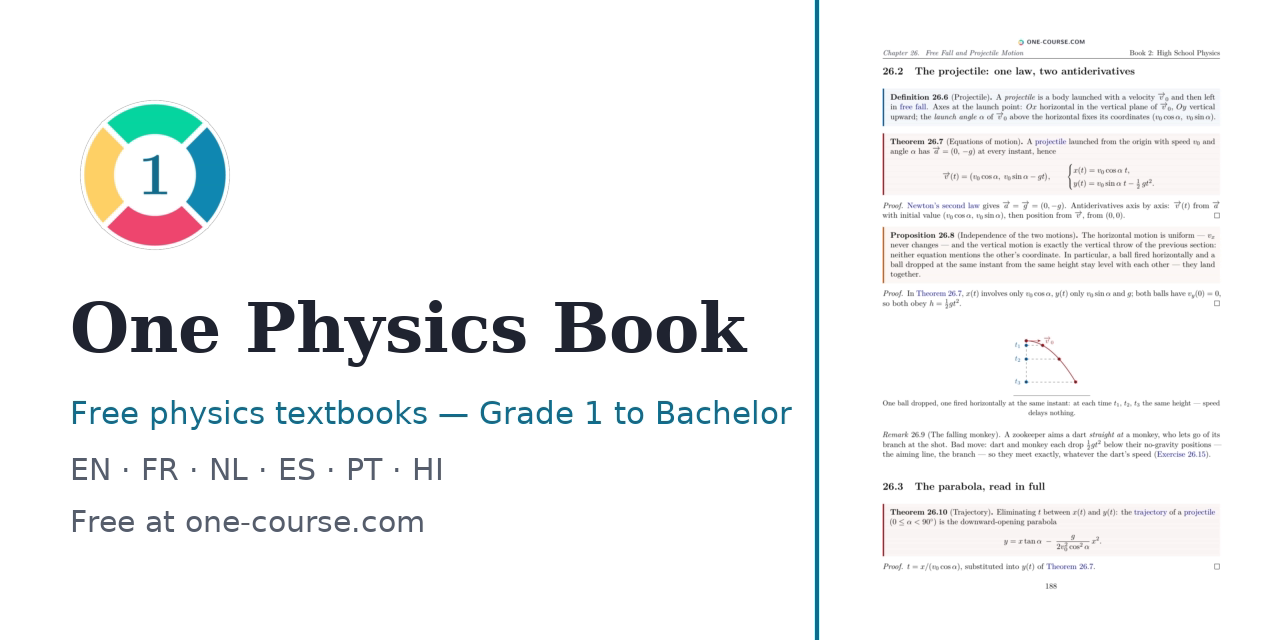
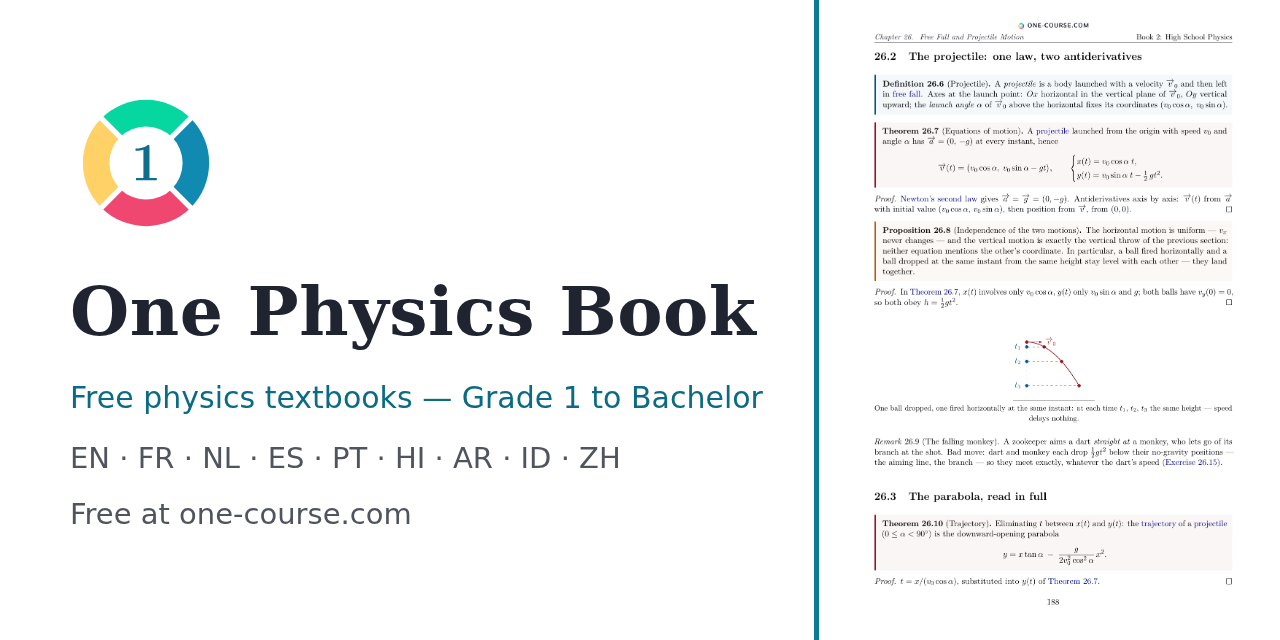
PP-172: Update all readmes

diff --git a/README.md b/README.md
@@ -1,7 +1,7 @@
 # One Physics Book
 
 <p align="center">
-  <a href="https://www.one-course.com">
+  <a href="https://one-course.com">
     <img src="assets/one-course-logo.svg" alt="One Course — one-course.com" width="420">
   </a>
 </p>
@@ -10,7 +10,7 @@
   <a href="https://github.com/bvirrion/one-physics-book/releases/latest"><img src="https://img.shields.io/github/v/release/bvirrion/one-physics-book?label=latest%20release" alt="Latest release"></a>
   <a href="https://github.com/bvirrion/one-physics-book/releases"><img src="https://img.shields.io/github/downloads/bvirrion/one-physics-book/total?label=PDF%20downloads" alt="PDF downloads"></a>
   <a href="https://github.com/bvirrion/one-physics-book/actions/workflows/release.yml"><img src="https://img.shields.io/github/actions/workflow/status/bvirrion/one-physics-book/release.yml?label=build" alt="Build status"></a>
-  <a href="https://www.one-course.com/books"><img src="https://img.shields.io/badge/read%20online-one--course.com-1f6feb" alt="Read online"></a>
+  <a href="https://one-course.com/books"><img src="https://img.shields.io/badge/read%20online-one--course.com-1f6feb" alt="Read online"></a>
 </p>
 
 *The One Physics Book to Rule Them All.*
@@ -18,9 +18,13 @@
 > **One Physics Book** is part of the **One Course** project — one coherent
 > course covering each subject from kindergarten to the end of the
 > bachelor's degree. Discover the whole project at
-> **[www.one-course.com](https://www.one-course.com)**, and see the siblings
+> **[one-course.com](https://one-course.com)**, and see the siblings
 > [One Math Book](https://github.com/bvirrion/one-math-book),
-> [One Biology Book](https://github.com/bvirrion/one-biology-book) and
+> [One Chemistry Book](https://github.com/bvirrion/one-chemistry-book),
+> [One Biology Book](https://github.com/bvirrion/one-biology-book),
+> [One Earth and Space Sciences Book](https://github.com/bvirrion/one-earth-and-space-sciences-book),
+> [One Computer Science Book](https://github.com/bvirrion/one-computer-science-book),
+> [One Economics Book](https://github.com/bvirrion/one-economics-book) and
 > [One Quant Book](https://github.com/bvirrion/one-quant-book).
 
 A series of five **free physics textbooks** forming a
@@ -28,8 +32,9 @@ single coherent course **from Grade 1 to the end of the bachelor's
 degree** — one notation, one voice, every year building on the previous
 one. **All five books are complete**, each in eight editions:
 **English, French, Dutch, Spanish, Portuguese, Hindi, Arabic and
-Indonesian** — free to read online or download for students, parents,
-teachers and homeschooling families:
+Indonesian**, plus a **Simplified Chinese** edition (PDF only for now) —
+free to read online or download for students, parents, teachers and
+homeschooling families:
 
 1. **Primary & Middle School Physics** — Grades 1–9;
 2. **High School Physics** — Grades 10–12;
@@ -37,13 +42,8 @@ teachers and homeschooling families:
 4. **University Physics — Year 2**;
 5. **University Physics — Year 3**.
 
-The contents follow the old French physics programs: the physics parts of
-the collège and lycée « S » (scientifique) track for the school years, the
-PCSI and PC\* classes préparatoires for the first two university years, and
-a Licence 3 de physique for the third. Unlike those programs, this course
-is **physics only** (no chemistry), and the early grades — where French
-schools taught no physics — are covered by age-adapted chapters so that the
-course truly starts in Grade 1.
+The course is **physics only** (no chemistry), and it truly starts in
+Grade 1: the early grades are covered by age-adapted chapters.
 
 The style is concise and rigorous: courses built from **definitions,
 examples, propositions, theorems and methods**, with derivations whenever
@@ -64,14 +64,15 @@ solution.
 
 | Book | Read online | Download PDF |
 |------|-------------|--------------|
-| **1. Primary & Middle School** (Grades 1–9) | [EN](https://www.one-course.com/books/physics/1/en) · [ES](https://www.one-course.com/books/physics/1/es) · [FR](https://www.one-course.com/books/physics/1/fr) · [HI](https://www.one-course.com/books/physics/1/hi) · [AR](https://www.one-course.com/books/physics/1/ar) · [ID](https://www.one-course.com/books/physics/1/id) · [NL](https://www.one-course.com/books/physics/1/nl) · [PT](https://www.one-course.com/books/physics/1/pt) | [EN](https://github.com/bvirrion/one-physics-book/releases/latest/download/one_physics_book_1_primary_middle_school.pdf) · [ES](https://github.com/bvirrion/one-physics-book/releases/latest/download/one_physics_book_1_primary_middle_school_es.pdf) · [FR](https://github.com/bvirrion/one-physics-book/releases/latest/download/one_physics_book_1_primary_middle_school_fr.pdf) · [HI](https://github.com/bvirrion/one-physics-book/releases/latest/download/one_physics_book_1_primary_middle_school_hi.pdf) · [AR](https://github.com/bvirrion/one-physics-book/releases/latest/download/one_physics_book_1_primary_middle_school_ar.pdf) · [ID](https://github.com/bvirrion/one-physics-book/releases/latest/download/one_physics_book_1_primary_middle_school_id.pdf) · [NL](https://github.com/bvirrion/one-physics-book/releases/latest/download/one_physics_book_1_primary_middle_school_nl.pdf) · [PT](https://github.com/bvirrion/one-physics-book/releases/latest/download/one_physics_book_1_primary_middle_school_pt.pdf) |
-| **2. High School** (Grades 10–12) | [EN](https://www.one-course.com/books/physics/2/en) · [ES](https://www.one-course.com/books/physics/2/es) · [FR](https://www.one-course.com/books/physics/2/fr) · [HI](https://www.one-course.com/books/physics/2/hi) · [AR](https://www.one-course.com/books/physics/2/ar) · [ID](https://www.one-course.com/books/physics/2/id) · [NL](https://www.one-course.com/books/physics/2/nl) · [PT](https://www.one-course.com/books/physics/2/pt) | [EN](https://github.com/bvirrion/one-physics-book/releases/latest/download/one_physics_book_2_high_school.pdf) · [ES](https://github.com/bvirrion/one-physics-book/releases/latest/download/one_physics_book_2_high_school_es.pdf) · [FR](https://github.com/bvirrion/one-physics-book/releases/latest/download/one_physics_book_2_high_school_fr.pdf) · [HI](https://github.com/bvirrion/one-physics-book/releases/latest/download/one_physics_book_2_high_school_hi.pdf) · [AR](https://github.com/bvirrion/one-physics-book/releases/latest/download/one_physics_book_2_high_school_ar.pdf) · [ID](https://github.com/bvirrion/one-physics-book/releases/latest/download/one_physics_book_2_high_school_id.pdf) · [NL](https://github.com/bvirrion/one-physics-book/releases/latest/download/one_physics_book_2_high_school_nl.pdf) · [PT](https://github.com/bvirrion/one-physics-book/releases/latest/download/one_physics_book_2_high_school_pt.pdf) |
-| **3. University — Year 1** | [EN](https://www.one-course.com/books/physics/3/en) · [ES](https://www.one-course.com/books/physics/3/es) · [FR](https://www.one-course.com/books/physics/3/fr) · [HI](https://www.one-course.com/books/physics/3/hi) · [AR](https://www.one-course.com/books/physics/3/ar) · [ID](https://www.one-course.com/books/physics/3/id) · [NL](https://www.one-course.com/books/physics/3/nl) · [PT](https://www.one-course.com/books/physics/3/pt) | [EN](https://github.com/bvirrion/one-physics-book/releases/latest/download/one_physics_book_3_university_year_1.pdf) · [ES](https://github.com/bvirrion/one-physics-book/releases/latest/download/one_physics_book_3_university_year_1_es.pdf) · [FR](https://github.com/bvirrion/one-physics-book/releases/latest/download/one_physics_book_3_university_year_1_fr.pdf) · [HI](https://github.com/bvirrion/one-physics-book/releases/latest/download/one_physics_book_3_university_year_1_hi.pdf) · [AR](https://github.com/bvirrion/one-physics-book/releases/latest/download/one_physics_book_3_university_year_1_ar.pdf) · [ID](https://github.com/bvirrion/one-physics-book/releases/latest/download/one_physics_book_3_university_year_1_id.pdf) · [NL](https://github.com/bvirrion/one-physics-book/releases/latest/download/one_physics_book_3_university_year_1_nl.pdf) · [PT](https://github.com/bvirrion/one-physics-book/releases/latest/download/one_physics_book_3_university_year_1_pt.pdf) |
-| **4. University — Year 2** | [EN](https://www.one-course.com/books/physics/4/en) · [ES](https://www.one-course.com/books/physics/4/es) · [FR](https://www.one-course.com/books/physics/4/fr) · [HI](https://www.one-course.com/books/physics/4/hi) · [AR](https://www.one-course.com/books/physics/4/ar) · [ID](https://www.one-course.com/books/physics/4/id) · [NL](https://www.one-course.com/books/physics/4/nl) · [PT](https://www.one-course.com/books/physics/4/pt) | [EN](https://github.com/bvirrion/one-physics-book/releases/latest/download/one_physics_book_4_university_year_2.pdf) · [ES](https://github.com/bvirrion/one-physics-book/releases/latest/download/one_physics_book_4_university_year_2_es.pdf) · [FR](https://github.com/bvirrion/one-physics-book/releases/latest/download/one_physics_book_4_university_year_2_fr.pdf) · [HI](https://github.com/bvirrion/one-physics-book/releases/latest/download/one_physics_book_4_university_year_2_hi.pdf) · [AR](https://github.com/bvirrion/one-physics-book/releases/latest/download/one_physics_book_4_university_year_2_ar.pdf) · [ID](https://github.com/bvirrion/one-physics-book/releases/latest/download/one_physics_book_4_university_year_2_id.pdf) · [NL](https://github.com/bvirrion/one-physics-book/releases/latest/download/one_physics_book_4_university_year_2_nl.pdf) · [PT](https://github.com/bvirrion/one-physics-book/releases/latest/download/one_physics_book_4_university_year_2_pt.pdf) |
-| **5. University — Year 3** | [EN](https://www.one-course.com/books/physics/5/en) · [ES](https://www.one-course.com/books/physics/5/es) · [FR](https://www.one-course.com/books/physics/5/fr) · [HI](https://www.one-course.com/books/physics/5/hi) · [AR](https://www.one-course.com/books/physics/5/ar) · [ID](https://www.one-course.com/books/physics/5/id) · [NL](https://www.one-course.com/books/physics/5/nl) · [PT](https://www.one-course.com/books/physics/5/pt) | [EN](https://github.com/bvirrion/one-physics-book/releases/latest/download/one_physics_book_5_university_year_3.pdf) · [ES](https://github.com/bvirrion/one-physics-book/releases/latest/download/one_physics_book_5_university_year_3_es.pdf) · [FR](https://github.com/bvirrion/one-physics-book/releases/latest/download/one_physics_book_5_university_year_3_fr.pdf) · [HI](https://github.com/bvirrion/one-physics-book/releases/latest/download/one_physics_book_5_university_year_3_hi.pdf) · [AR](https://github.com/bvirrion/one-physics-book/releases/latest/download/one_physics_book_5_university_year_3_ar.pdf) · [ID](https://github.com/bvirrion/one-physics-book/releases/latest/download/one_physics_book_5_university_year_3_id.pdf) · [NL](https://github.com/bvirrion/one-physics-book/releases/latest/download/one_physics_book_5_university_year_3_nl.pdf) · [PT](https://github.com/bvirrion/one-physics-book/releases/latest/download/one_physics_book_5_university_year_3_pt.pdf) |
+| **1. Primary & Middle School** (Grades 1–9) | [EN](https://one-course.com/books/physics/1/en) · [ES](https://one-course.com/books/physics/1/es) · [FR](https://one-course.com/books/physics/1/fr) · [HI](https://one-course.com/books/physics/1/hi) · [AR](https://one-course.com/books/physics/1/ar) · [ID](https://one-course.com/books/physics/1/id) · [NL](https://one-course.com/books/physics/1/nl) · [PT](https://one-course.com/books/physics/1/pt) | [EN](https://github.com/bvirrion/one-physics-book/releases/latest/download/one_physics_book_1_primary_middle_school.pdf) · [ES](https://github.com/bvirrion/one-physics-book/releases/latest/download/one_physics_book_1_primary_middle_school_es.pdf) · [FR](https://github.com/bvirrion/one-physics-book/releases/latest/download/one_physics_book_1_primary_middle_school_fr.pdf) · [HI](https://github.com/bvirrion/one-physics-book/releases/latest/download/one_physics_book_1_primary_middle_school_hi.pdf) · [AR](https://github.com/bvirrion/one-physics-book/releases/latest/download/one_physics_book_1_primary_middle_school_ar.pdf) · [ID](https://github.com/bvirrion/one-physics-book/releases/latest/download/one_physics_book_1_primary_middle_school_id.pdf) · [NL](https://github.com/bvirrion/one-physics-book/releases/latest/download/one_physics_book_1_primary_middle_school_nl.pdf) · [PT](https://github.com/bvirrion/one-physics-book/releases/latest/download/one_physics_book_1_primary_middle_school_pt.pdf) · [ZH](https://github.com/bvirrion/one-physics-book/releases/latest/download/one_physics_book_1_primary_middle_school_zh.pdf) |
+| **2. High School** (Grades 10–12) | [EN](https://one-course.com/books/physics/2/en) · [ES](https://one-course.com/books/physics/2/es) · [FR](https://one-course.com/books/physics/2/fr) · [HI](https://one-course.com/books/physics/2/hi) · [AR](https://one-course.com/books/physics/2/ar) · [ID](https://one-course.com/books/physics/2/id) · [NL](https://one-course.com/books/physics/2/nl) · [PT](https://one-course.com/books/physics/2/pt) | [EN](https://github.com/bvirrion/one-physics-book/releases/latest/download/one_physics_book_2_high_school.pdf) · [ES](https://github.com/bvirrion/one-physics-book/releases/latest/download/one_physics_book_2_high_school_es.pdf) · [FR](https://github.com/bvirrion/one-physics-book/releases/latest/download/one_physics_book_2_high_school_fr.pdf) · [HI](https://github.com/bvirrion/one-physics-book/releases/latest/download/one_physics_book_2_high_school_hi.pdf) · [AR](https://github.com/bvirrion/one-physics-book/releases/latest/download/one_physics_book_2_high_school_ar.pdf) · [ID](https://github.com/bvirrion/one-physics-book/releases/latest/download/one_physics_book_2_high_school_id.pdf) · [NL](https://github.com/bvirrion/one-physics-book/releases/latest/download/one_physics_book_2_high_school_nl.pdf) · [PT](https://github.com/bvirrion/one-physics-book/releases/latest/download/one_physics_book_2_high_school_pt.pdf) · [ZH](https://github.com/bvirrion/one-physics-book/releases/latest/download/one_physics_book_2_high_school_zh.pdf) |
+| **3. University — Year 1** | [EN](https://one-course.com/books/physics/3/en) · [ES](https://one-course.com/books/physics/3/es) · [FR](https://one-course.com/books/physics/3/fr) · [HI](https://one-course.com/books/physics/3/hi) · [AR](https://one-course.com/books/physics/3/ar) · [ID](https://one-course.com/books/physics/3/id) · [NL](https://one-course.com/books/physics/3/nl) · [PT](https://one-course.com/books/physics/3/pt) | [EN](https://github.com/bvirrion/one-physics-book/releases/latest/download/one_physics_book_3_university_year_1.pdf) · [ES](https://github.com/bvirrion/one-physics-book/releases/latest/download/one_physics_book_3_university_year_1_es.pdf) · [FR](https://github.com/bvirrion/one-physics-book/releases/latest/download/one_physics_book_3_university_year_1_fr.pdf) · [HI](https://github.com/bvirrion/one-physics-book/releases/latest/download/one_physics_book_3_university_year_1_hi.pdf) · [AR](https://github.com/bvirrion/one-physics-book/releases/latest/download/one_physics_book_3_university_year_1_ar.pdf) · [ID](https://github.com/bvirrion/one-physics-book/releases/latest/download/one_physics_book_3_university_year_1_id.pdf) · [NL](https://github.com/bvirrion/one-physics-book/releases/latest/download/one_physics_book_3_university_year_1_nl.pdf) · [PT](https://github.com/bvirrion/one-physics-book/releases/latest/download/one_physics_book_3_university_year_1_pt.pdf) · [ZH](https://github.com/bvirrion/one-physics-book/releases/latest/download/one_physics_book_3_university_year_1_zh.pdf) |
+| **4. University — Year 2** | [EN](https://one-course.com/books/physics/4/en) · [ES](https://one-course.com/books/physics/4/es) · [FR](https://one-course.com/books/physics/4/fr) · [HI](https://one-course.com/books/physics/4/hi) · [AR](https://one-course.com/books/physics/4/ar) · [ID](https://one-course.com/books/physics/4/id) · [NL](https://one-course.com/books/physics/4/nl) · [PT](https://one-course.com/books/physics/4/pt) | [EN](https://github.com/bvirrion/one-physics-book/releases/latest/download/one_physics_book_4_university_year_2.pdf) · [ES](https://github.com/bvirrion/one-physics-book/releases/latest/download/one_physics_book_4_university_year_2_es.pdf) · [FR](https://github.com/bvirrion/one-physics-book/releases/latest/download/one_physics_book_4_university_year_2_fr.pdf) · [HI](https://github.com/bvirrion/one-physics-book/releases/latest/download/one_physics_book_4_university_year_2_hi.pdf) · [AR](https://github.com/bvirrion/one-physics-book/releases/latest/download/one_physics_book_4_university_year_2_ar.pdf) · [ID](https://github.com/bvirrion/one-physics-book/releases/latest/download/one_physics_book_4_university_year_2_id.pdf) · [NL](https://github.com/bvirrion/one-physics-book/releases/latest/download/one_physics_book_4_university_year_2_nl.pdf) · [PT](https://github.com/bvirrion/one-physics-book/releases/latest/download/one_physics_book_4_university_year_2_pt.pdf) · [ZH](https://github.com/bvirrion/one-physics-book/releases/latest/download/one_physics_book_4_university_year_2_zh.pdf) |
+| **5. University — Year 3** | [EN](https://one-course.com/books/physics/5/en) · [ES](https://one-course.com/books/physics/5/es) · [FR](https://one-course.com/books/physics/5/fr) · [HI](https://one-course.com/books/physics/5/hi) · [AR](https://one-course.com/books/physics/5/ar) · [ID](https://one-course.com/books/physics/5/id) · [NL](https://one-course.com/books/physics/5/nl) · [PT](https://one-course.com/books/physics/5/pt) | [EN](https://github.com/bvirrion/one-physics-book/releases/latest/download/one_physics_book_5_university_year_3.pdf) · [ES](https://github.com/bvirrion/one-physics-book/releases/latest/download/one_physics_book_5_university_year_3_es.pdf) · [FR](https://github.com/bvirrion/one-physics-book/releases/latest/download/one_physics_book_5_university_year_3_fr.pdf) · [HI](https://github.com/bvirrion/one-physics-book/releases/latest/download/one_physics_book_5_university_year_3_hi.pdf) · [AR](https://github.com/bvirrion/one-physics-book/releases/latest/download/one_physics_book_5_university_year_3_ar.pdf) · [ID](https://github.com/bvirrion/one-physics-book/releases/latest/download/one_physics_book_5_university_year_3_id.pdf) · [NL](https://github.com/bvirrion/one-physics-book/releases/latest/download/one_physics_book_5_university_year_3_nl.pdf) · [PT](https://github.com/bvirrion/one-physics-book/releases/latest/download/one_physics_book_5_university_year_3_pt.pdf) · [ZH](https://github.com/bvirrion/one-physics-book/releases/latest/download/one_physics_book_5_university_year_3_zh.pdf) |
 
-All eight editions of every book can be read online, chapter by chapter, and
-the PDF links always point at the newest release. Spotted a mistake? Please
+All eight editions of every book can be read online, chapter by chapter (the
+Chinese edition is PDF only for now), and the PDF links always point at the
+newest release. Spotted a mistake? Please
 [report an erratum](https://github.com/bvirrion/one-physics-book/issues/new?template=errata.yml) —
 fixes usually ship within days.
 
@@ -110,11 +111,12 @@ The PDFs are produced at
 build/one_physics_book_<N>_<slug>[_<lang>].pdf
 ```
 
-with `N` = 1–5 and `lang` ∈ {`fr`, `nl`, `es`, `pt`, `hi`, `ar`, `id`}
-(no suffix for English) — 40 PDFs in total. The Hindi editions compile
+with `N` = 1–5 and `lang` ∈ {`fr`, `nl`, `es`, `pt`, `hi`, `ar`, `id`, `zh`}
+(no suffix for English) — 45 PDFs in total. The Hindi editions compile
 with XeLaTeX (Devanagari) and the Arabic editions with
 LuaLaTeX (right-to-left, via babel `bidi=basic`); both have their fonts
-bundled under `assets/fonts/`, and everything else is pdflatex.
+bundled under `assets/fonts/`. The Simplified Chinese editions compile with
+XeLaTeX and xeCJK (Fandol fonts from TeX Live). Everything else is pdflatex.
 
 `make clean` removes auxiliary files, `make distclean` removes the whole
 `build/` directory. To build a single book, e.g.\
@@ -125,7 +127,7 @@ bundled under `assets/fonts/`, and everything else is pdflatex.
 ```
 one_physics_book_<N>_*.tex   entry file per book / language (N = series number)
 styles/onephysics.sty        packages, theorem environments, macros
-styles/lang/<lang>.tex       UI strings (en, fr, nl, es, pt, hi, ar, id)
+styles/lang/<lang>.tex       UI strings (en, fr, nl, es, pt, hi, ar, id, zh)
 frontmatter/                 title page, preface (shared layout)
 parts/<year>/part.tex        shared structure for a school year
 parts/<year>/NN-*.tex        English chapter
